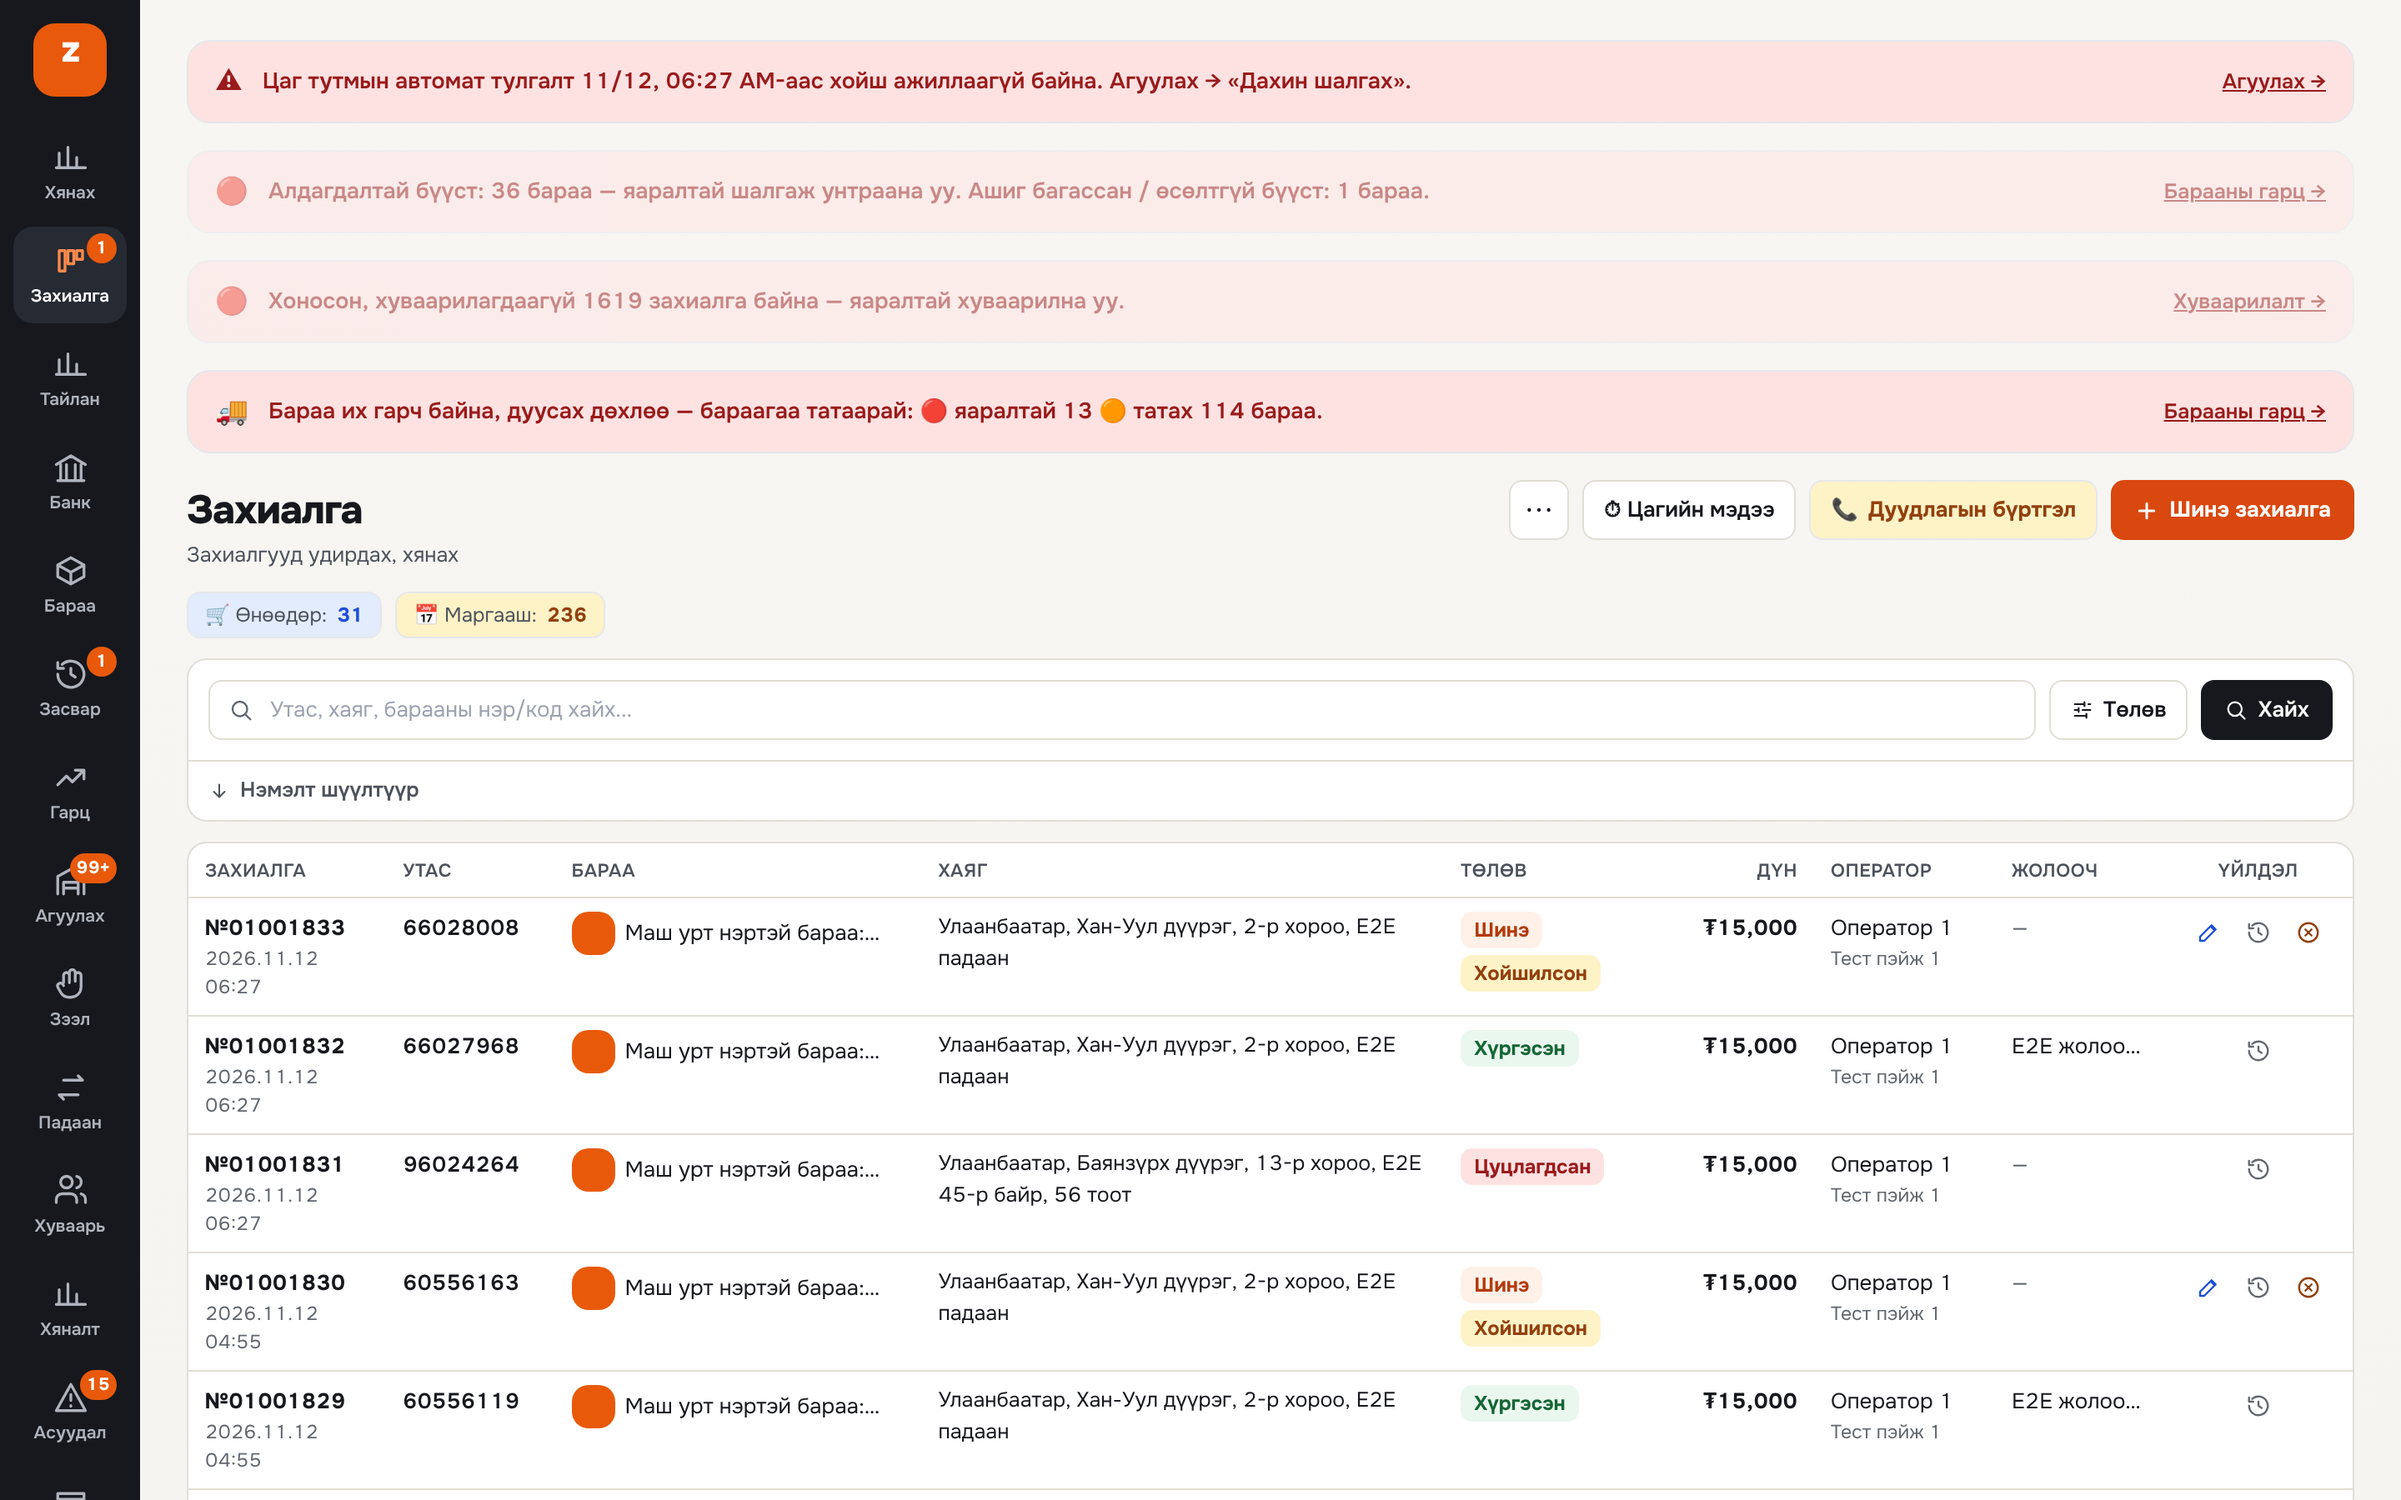
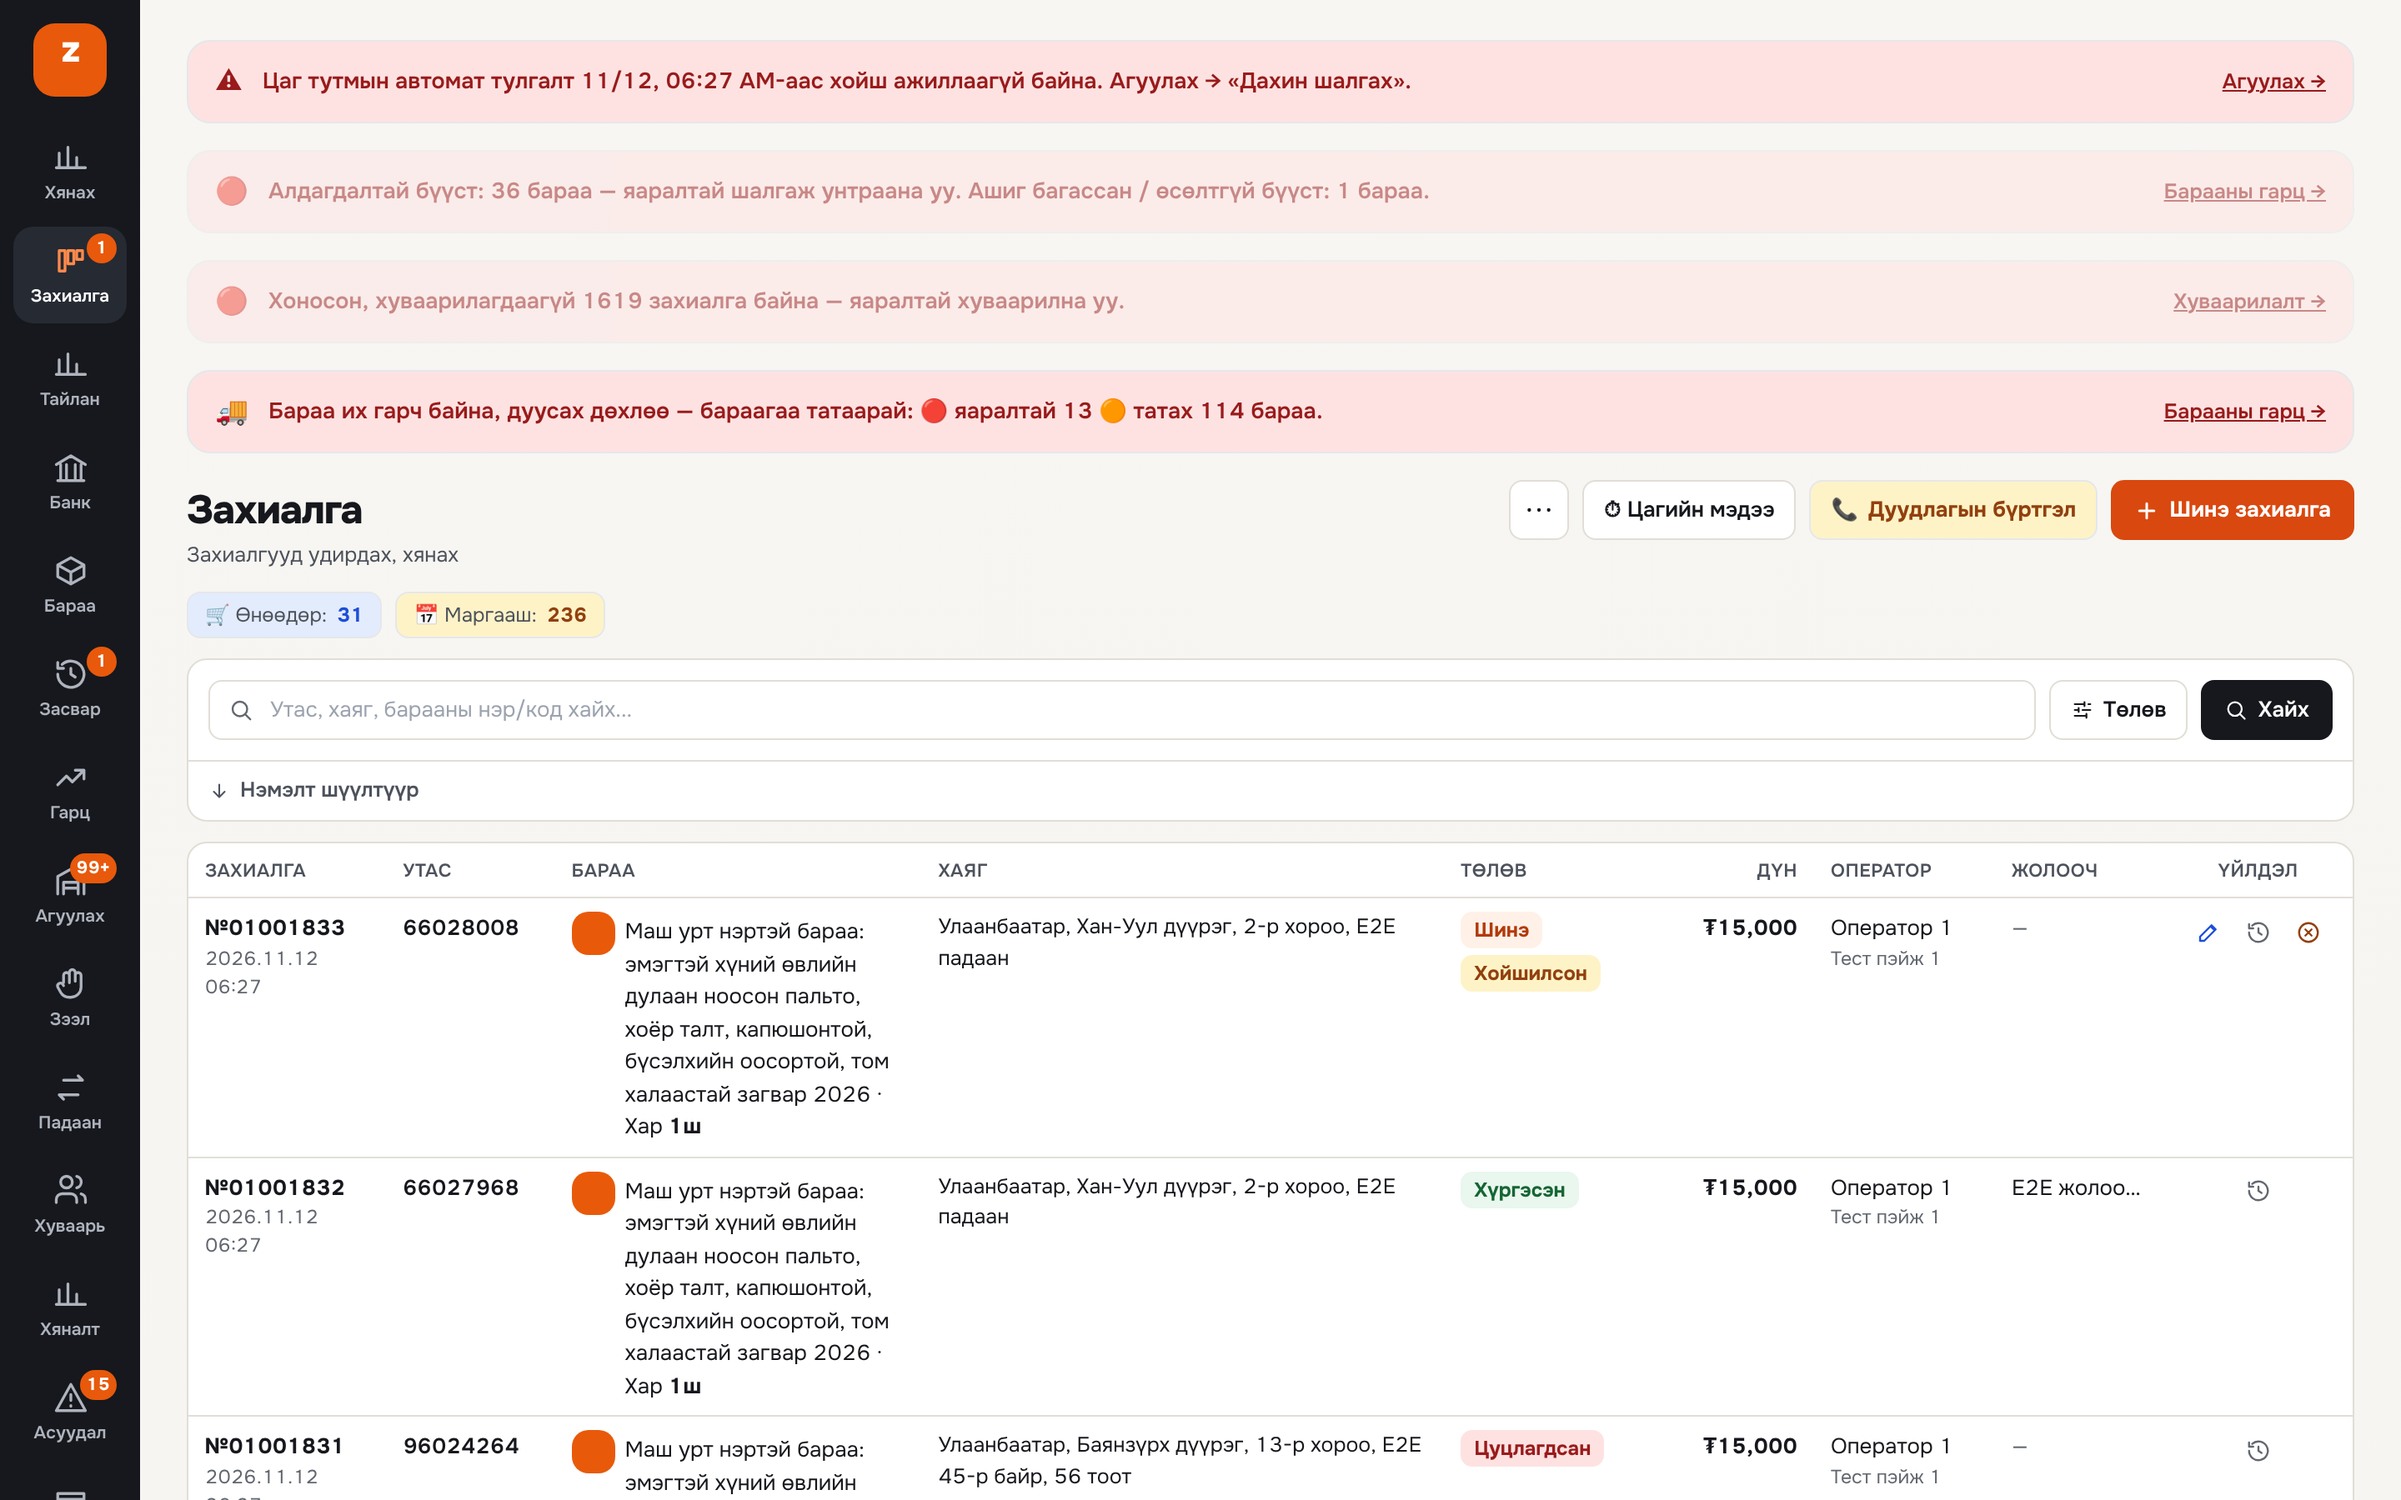
Захиалгын жагсаалт: барааны нэр бүтнээрээ (таслахгүй)
Claude-Session: https://claude.ai/code/session_014hLXfijkzgjk3r2HE4dsyD

diff --git a/components/orders/OrdersClient.tsx b/components/orders/OrdersClient.tsx
@@ -298,7 +298,7 @@ export function OrdersClient({ initialModal }: { initialModal?: { kind: 'new' } 
                   <td className="select-text px-2.5 py-2"><div className="font-semibold">{formatPhone(o.phone)}</div>{o.extraPhone ? <div className="text-[11.5px] text-muted">{formatPhone(o.extraPhone)}</div> : null}</td>
                   <td className="min-w-[220px] px-2.5 py-2">
                     <div className="flex flex-col gap-1">
-                      {o.lines.slice(0, 3).map((l) => <span key={l.id} className="flex items-center gap-1.5"><Thumb src={l.thumb} alt={`${l.name} ${l.label}`} size={26} zoom={l.code} /><span className="line-clamp-1">{l.name}{l.label ? ` · ${l.label}` : ''} <b className="whitespace-nowrap">{l.qty}ш</b></span></span>)}
+                      {o.lines.slice(0, 3).map((l) => <span key={l.id} className="flex items-start gap-1.5"><Thumb src={l.thumb} alt={`${l.name} ${l.label}`} size={26} zoom={l.code} /><span className="min-w-0 pt-0.5 [overflow-wrap:anywhere]">{l.name}{l.label ? ` · ${l.label}` : ''} <b className="whitespace-nowrap">{l.qty}ш</b></span></span>)}
                       {o.lines.length > 3 ? <span className="text-[11.5px] text-subtle">+{o.lines.length - 3} бараа</span> : null}
                     </div>
                   </td>
